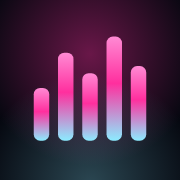
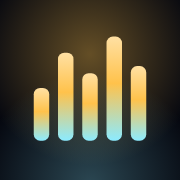
Reskin to teal + amber/gold palette (away from Hitster pink)
Retire hot-pink #FF2F9E as the primary accent; introduce --gold #FFC24B
paired with the existing cyan on the dark synthwave base. Swapped all
accent gradients, glows, focus states and selected-chip fills; kept cyan
for section headers. Regenerated the app icon (equalizer bars now amber
to cyan) at 512/192/180.

Claude-Session: https://claude.ai/code/session_01XbzfSX1x9Bic69aUzRgFJK

diff --git a/index.html b/index.html
@@ -14,9 +14,9 @@
 <style>
   :root{
     --ink:#02040A; --surface:#101426; --surface-2:#131A35; --line:#2A3054;
-    --pink:#FF2F9E; --cyan:#8CEBFF; --violet:#B36BFF;
+    --gold:#FFC24B; --cyan:#8CEBFF; --violet:#B36BFF;
     --text:#F9F2FF; --muted:#A6ABD1; --good:#49F1A0; --bad:#FF5E8A;
-    --glow-pink:rgba(255,47,158,.18);
+    --glow-gold:rgba(255,194,75,.18);
     --glow-cyan:rgba(140,235,255,.12);
     --r:14px;
   }
@@ -24,9 +24,9 @@
   html,body{margin:0; height:100%;}
   body{
     background:
-      radial-gradient(900px 420px at 50% -8%, var(--glow-pink), transparent 58%),
+      radial-gradient(900px 420px at 50% -8%, var(--glow-gold), transparent 58%),
       radial-gradient(800px 380px at 50% 115%, var(--glow-cyan), transparent 50%),
-      radial-gradient(520px 260px at 12% 18%, rgba(255,47,158,.09), transparent 36%),
+      radial-gradient(520px 260px at 12% 18%, rgba(255,194,75,.09), transparent 36%),
       linear-gradient(180deg, #03050D 0%, #0B1020 52%, #02040A 100%);
     color:var(--text);
     font-family:"Space Grotesk",system-ui,sans-serif;
@@ -35,12 +35,12 @@
   }
   #app{max-width:560px; margin:0 auto; padding:22px 18px 40px; min-height:100%;}
   .display{font-family:"Anton",sans-serif; font-weight:400; letter-spacing:.5px; line-height:.95;}
-  .eyebrow{font-size:12px; letter-spacing:.28em; text-transform:uppercase; color:var(--pink); font-weight:700;}
+  .eyebrow{font-size:12px; letter-spacing:.28em; text-transform:uppercase; color:var(--gold); font-weight:700;}
   .muted{color:var(--muted);}
   h1.brand{font-family:"Anton"; font-size:clamp(40px,13vw,64px); margin:6px 0 2px; letter-spacing:1px;
-    background:linear-gradient(180deg,#ffffff 0%, #f8b7e9 52%, var(--cyan) 100%);
+    background:linear-gradient(180deg,#ffffff 0%, #FFE0A3 52%, var(--cyan) 100%);
     -webkit-background-clip:text; background-clip:text; color:transparent;
-    text-shadow:0 0 18px rgba(255,47,158,.08);}
+    text-shadow:0 0 18px rgba(255,194,75,.08);}
   .tag{color:var(--muted); font-size:14px; margin-bottom:22px; line-height:1.5;}
   .card{background:linear-gradient(180deg, #13182E, #0D1121); border:1px solid var(--line); border-radius:var(--r); padding:18px;
     box-shadow: inset 0 1px 0 rgba(255,255,255,.04), 0 10px 26px rgba(0,0,0,.35);}
@@ -50,14 +50,14 @@
     width:100%; background:var(--ink); border:1px solid var(--line); color:var(--text);
     border-radius:10px; padding:13px 14px; font:inherit; font-size:15px; outline:none;
   }
-  input[type=text]:focus, input[type=number]:focus{border-color:var(--pink);}
+  input[type=text]:focus, input[type=number]:focus{border-color:var(--gold);}
   .row{display:flex; gap:10px; align-items:center;}
   .row.wrap{flex-wrap:wrap;}
   button{font:inherit; cursor:pointer; border:none; border-radius:11px; font-weight:700; letter-spacing:.01em;}
   .btn{padding:14px 16px; background:var(--surface-2); color:var(--text); border:1px solid var(--line); width:100%;}
   .btn:active{transform:translateY(1px);}
-  .btn.primary{background:linear-gradient(180deg,#FF72C8,var(--pink)); color:#250019; border:none;
-    box-shadow:0 10px 22px rgba(255,47,158,.24);}
+  .btn.primary{background:linear-gradient(180deg,#FFDE93,var(--gold)); color:#2A1A00; border:none;
+    box-shadow:0 10px 22px rgba(255,194,75,.24);}
   .btn.pink{background:linear-gradient(180deg,#A9F1FF,var(--cyan)); color:#002A38; border:none;
     box-shadow:0 10px 22px rgba(140,235,255,.18);}
   .btn.ghost{background:transparent;}
@@ -78,9 +78,9 @@
     color:var(--text); width:100%; text-align:left; font:inherit; font-weight:700;}
   .diff .dname{font-size:15px;}
   .diff .dcards{flex:0 0 auto; font-size:12px; color:var(--muted); letter-spacing:.04em; font-weight:500;}
-  .diff.sel{background:linear-gradient(180deg,#FF72C8,var(--pink)); color:#250019; border-color:transparent;
-    box-shadow:0 8px 20px rgba(255,47,158,.22);}
-  .diff.sel .dcards{color:#250019; opacity:.85;}
+  .diff.sel{background:linear-gradient(180deg,#FFDE93,var(--gold)); color:#2A1A00; border-color:transparent;
+    box-shadow:0 8px 20px rgba(255,194,75,.22);}
+  .diff.sel .dcards{color:#2A1A00; opacity:.85;}
 
   /* DECK PICKER */
   .deck-list{display:flex; flex-direction:column; gap:8px;}
@@ -91,9 +91,9 @@
   .deck .dt{display:block; font-size:15px; font-weight:700; line-height:1.25;}
   .deck .dd{display:block; font-size:12px; color:var(--muted); font-weight:500; margin-top:3px; line-height:1.3;}
   .deck .dn{flex:0 0 auto; font-size:12px; color:var(--muted); font-weight:500;}
-  .deck.sel{background:linear-gradient(180deg,#FF72C8,var(--pink)); color:#250019; border-color:transparent;
-    box-shadow:0 8px 20px rgba(255,47,158,.22);}
-  .deck.sel .dd, .deck.sel .dn{color:#250019; opacity:.85;}
+  .deck.sel{background:linear-gradient(180deg,#FFDE93,var(--gold)); color:#2A1A00; border-color:transparent;
+    box-shadow:0 8px 20px rgba(255,194,75,.22);}
+  .deck.sel .dd, .deck.sel .dn{color:#2A1A00; opacity:.85;}
   /* deck carousel — side-scrollable pages of 6 chips (2 cols × 3 rows) */
   .deck-carousel{display:flex; overflow-x:auto; scroll-snap-type:x mandatory; gap:14px;
     -webkit-overflow-scrolling:touch; padding:2px 0 4px; scrollbar-width:none;}
@@ -101,7 +101,7 @@
   .deck-page{flex:0 0 100%; scroll-snap-align:start; display:grid; grid-template-columns:1fr 1fr; gap:8px; align-content:start;}
   .car-dots{display:flex; justify-content:center; gap:6px; margin-top:11px;}
   .car-dot{width:6px; height:6px; border-radius:99px; background:var(--line); transition:.2s;}
-  .car-dot.on{background:var(--pink); width:18px;}
+  .car-dot.on{background:var(--gold); width:18px;}
   .dchip{display:flex; align-items:flex-start; gap:8px; padding:10px 11px; border-radius:12px; min-height:66px;
     background:var(--surface-2); border:1px solid var(--line); color:var(--text); width:100%; text-align:left; font:inherit; min-width:0;}
   .dchip:active{transform:translateY(1px);}
@@ -109,9 +109,9 @@
   .dchip .dm{min-width:0; flex:1;}
   .dchip .dn2{display:block; font-weight:700; font-size:13px; line-height:1.25;}
   .dchip .dc2{display:block; font-size:10.5px; color:var(--muted); margin-top:3px; line-height:1.3;}
-  .dchip.sel{background:linear-gradient(180deg,#FF72C8,var(--pink)); color:#250019; border-color:transparent;
-    box-shadow:0 6px 16px rgba(255,47,158,.22);}
-  .dchip.sel .dc2{color:#250019; opacity:.82;}
+  .dchip.sel{background:linear-gradient(180deg,#FFDE93,var(--gold)); color:#2A1A00; border-color:transparent;
+    box-shadow:0 6px 16px rgba(255,194,75,.22);}
+  .dchip.sel .dc2{color:#2A1A00; opacity:.82;}
 
   /* DECK BUILDER */
   .res-list{display:flex; flex-direction:column; gap:8px; margin-top:12px;}
@@ -124,7 +124,7 @@
   .song-row{display:flex; align-items:center; gap:10px; background:var(--surface); border:1px solid var(--line);
     border-radius:12px; padding:10px 12px;}
   .song-row input.yr{width:74px; flex:0 0 auto; text-align:center; font-family:"Anton"; font-size:18px;
-    color:var(--pink); padding:8px 6px; -moz-appearance:textfield;}
+    color:var(--gold); padding:8px 6px; -moz-appearance:textfield;}
   .song-row input.yr::-webkit-outer-spin-button, .song-row input.yr::-webkit-inner-spin-button{-webkit-appearance:none; margin:0;}
 
   /* GAME */
@@ -133,17 +133,17 @@
   .lb2{display:flex; flex-direction:column; gap:6px; margin-top:6px;}
   .lb2-row{display:flex; align-items:center; gap:10px; padding:8px 11px; border-radius:10px;
     border:1px solid var(--line); background:var(--surface);}
-  .lb2-row.me{border-color:var(--pink); background:rgba(255,47,158,.07);}
+  .lb2-row.me{border-color:var(--gold); background:rgba(255,194,75,.07);}
   .lb2-rank{font-size:15px; width:20px; text-align:center; flex:0 0 auto; color:var(--muted); font-weight:700;}
   .lb2-nm{font-weight:700; font-size:13px; flex:0 0 auto; width:72px; white-space:nowrap; overflow:hidden; text-overflow:ellipsis;}
   .lb2-bar{flex:1; height:7px; border-radius:99px; background:var(--ink); overflow:hidden;}
-  .lb2-fill{display:block; height:100%; background:linear-gradient(90deg,var(--cyan),var(--pink)); border-radius:99px; transition:width .3s;}
+  .lb2-fill{display:block; height:100%; background:linear-gradient(90deg,var(--cyan),var(--gold)); border-radius:99px; transition:width .3s;}
   .lb2-sc{font-size:12px; color:var(--muted); flex:0 0 auto; min-width:42px; text-align:right;}
-  .lb2-row.me .lb2-nm{color:var(--pink);}
+  .lb2-row.me .lb2-nm{color:var(--gold);}
 
   .stage{background:var(--surface); border:1px solid var(--line); border-radius:18px; padding:22px 18px; text-align:center; margin-bottom:16px;}
   .eq{display:inline-flex; gap:4px; align-items:flex-end; height:34px; margin-bottom:10px;}
-  .eq span{width:5px; background:linear-gradient(180deg,var(--pink),var(--cyan)); border-radius:3px; animation:eq 1s ease-in-out infinite;}
+  .eq span{width:5px; background:linear-gradient(180deg,var(--gold),var(--cyan)); border-radius:3px; animation:eq 1s ease-in-out infinite;}
   .eq span:nth-child(2){animation-delay:.15s} .eq span:nth-child(3){animation-delay:.3s}
   .eq span:nth-child(4){animation-delay:.45s} .eq span:nth-child(5){animation-delay:.6s}
   @keyframes eq{0%,100%{height:9px}50%{height:34px}}
@@ -164,7 +164,7 @@
   .tie{flex:0 0 auto; align-self:center; color:var(--muted); font-size:15px; font-weight:700; opacity:.55; padding:0 2px;}
   .placed{flex:0 0 auto; width:104px; min-height:96px; border-radius:12px; background:var(--surface-2);
     border:1px solid var(--line); padding:10px 9px; display:flex; flex-direction:column; justify-content:space-between;}
-  .placed .yr{font-family:"Anton"; font-size:30px; color:var(--pink); line-height:.9;}
+  .placed .yr{font-family:"Anton"; font-size:30px; color:var(--gold); line-height:.9;}
   .placed .ti{font-size:11px; line-height:1.25; max-height:42px; overflow:hidden;}
   .placed .ar{font-size:10px; color:var(--muted); margin-top:2px;}
   .empty-tl{color:var(--muted); font-size:13px; padding:14px 2px;}
@@ -176,7 +176,7 @@
   /* loading */
   .loadwrap{text-align:center; padding:60px 18px;}
   .loadbar{height:8px; border-radius:99px; background:var(--ink); overflow:hidden; margin:18px auto 0; max-width:280px; border:1px solid var(--line);}
-  .loadfill{display:block; height:100%; background:linear-gradient(90deg,var(--cyan),var(--pink)); border-radius:99px; transition:width .2s;}
+  .loadfill{display:block; height:100%; background:linear-gradient(90deg,var(--cyan),var(--gold)); border-radius:99px; transition:width .2s;}
 
   /* overlay */
   .overlay{position:fixed; inset:0; background:rgba(8,9,12,.72); backdrop-filter:blur(6px); display:none;
@@ -4977,7 +4977,7 @@ function renderVerify(){
         <div style="text-align:center; font-size:10px; color:var(--muted); flex:0 0 auto">deck<br><b style="color:var(--text); font-size:15px">${f.year}</b></div>
         <div style="text-align:center; font-size:10px; color:var(--muted); flex:0 0 auto">Apple<br><b style="color:var(--cyan); font-size:15px">${f.apple}</b></div>
         <input type="number" inputmode="numeric" value="${f.year}" onchange="saveYear('${f.id}', this.value); toast('Saved '+this.value)"
-          style="width:74px; flex:0 0 auto; text-align:center; font-family:'Anton'; font-size:18px; color:var(--pink); padding:8px 4px" />
+          style="width:74px; flex:0 0 auto; text-align:center; font-family:'Anton'; font-size:18px; color:var(--gold); padding:8px 4px" />
       </div>`).join("");
     body = `
       <div class="card">